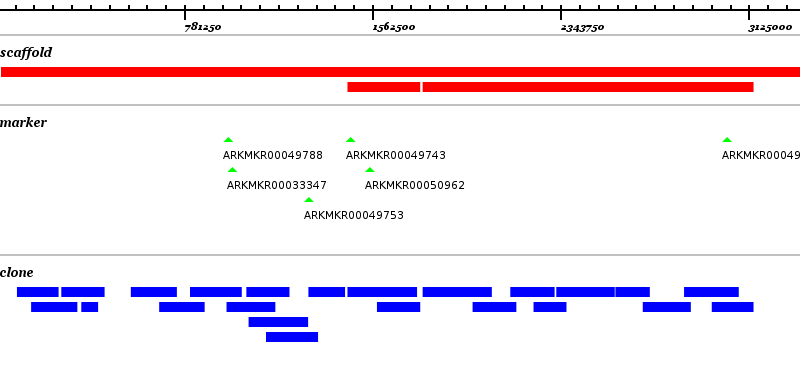
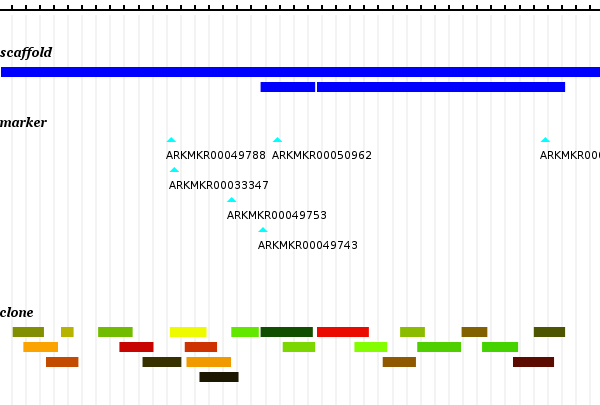
* Colour of glyph moved to just before actual drawing of subfeature. * Test test_draw.rb now includes dynamic setting of colour using lambda. * Bug fixed: major ticks and numbers not shown in ruler (bug #18365) * Numbers in ruler now commified * New glyph: arrow
git-svn-id: svn+ssh://rubyforge.org/var/svn/bio-graphics@57 a2f46d20-7dc0-45cf-9d05-bfa4e4ff58eb

diff --git a/trunk/lib/bio/graphics/ruler.rb b/trunk/lib/bio/graphics/ruler.rb
@@ -58,7 +58,7 @@ class Bio::Graphics::Ruler
     #    343, 353, 363, 373 and so on. Instead, we want 350, 360, 370, 380.
     #    So we want to find the position of the first tick.
     modulo_from_tick = (start % minor_tick)
-    start + (modulo_from_tick > 0 ? (minor_tick - modulo_from_tick + 1) : 0)
+    return (start + (modulo_from_tick > 0 ? (minor_tick - modulo_from_tick) : 0))
   end
   
   # Draw the ruler, including the faint vertical lines that go from top to
@@ -68,12 +68,12 @@ class Bio::Graphics::Ruler
 
     # Draw line
     ruler_drawing.move_to(0,10)
-    ruler_drawing.line_to(panel.width, 10)
+    ruler_drawing.line_to(@panel.width, 10)
     ruler_drawing.stroke
 
     # Draw ticks and vertical grid lines
-    first_tick_position.step(@panel.display_stop, @minor_tick_distance) do |tick|
-      tick_pixel_position = ((tick - panel.display_start) / @panel.rescale_factor).floor
+    self.first_tick_position.step(@panel.display_stop, @minor_tick_distance) do |tick|
+      tick_pixel_position = ((tick - @panel.display_start) / @panel.rescale_factor).floor
       ruler_drawing.move_to(tick_pixel_position, @min_pixels_per_tick)
       if tick.modulo(@major_tick_distance) == 0 # major tick
         tick(ruler_drawing,3*@tick_height)
@@ -113,7 +113,7 @@ class Bio::Graphics::Ruler
     surface.select_font_face(*Bio::Graphics::FONT)
     surface.set_font_size(@tick_text_height)
     surface.move_to(position, 4*@tick_height + @tick_text_height)
-    surface.show_text(tick.to_i.to_s)    
+    surface.show_text(tick.to_i.commify)
   end
   private :tick_number
 end

diff --git a/trunk/samples/glyph_showcase.rb b/trunk/samples/glyph_showcase.rb
@@ -7,6 +7,7 @@ box_track = my_panel.add_track('box', :label => false, :glyph => :box)
 line_track = my_panel.add_track('line', :label => false, :glyph => :line, :colour => [0,0,1])
 line_with_handles_track = my_panel.add_track('line_with_handles', :label => false, :glyph => :line_with_handles, :colour => [1,0,0])
 directed_track = my_panel.add_track('directed', :label => false, :glyph => :directed_generic, :colour => [0,1,0])
+arrow_track = my_panel.add_track('arrow', :label => false, :glyph => :arrow)
 directed_box_track = my_panel.add_track('directed_box', :label => false, :glyph => :directed_box, :colour => [0,1,0])
 triangle_track = my_panel.add_track('triangle', :label => false, :glyph => :triangle, :colour => [1,0,0])
 spliced_track = my_panel.add_track('spliced', :label => false, :glyph => :spliced, :colour => [1,0,0])
@@ -26,6 +27,9 @@ line_with_handles_track.add_feature(Bio::Feature.new('utr', '355..480'), :link =
 
 directed_track.add_feature(Bio::Feature.new('primer', '50..60'), :link => 'http://www.google.com')
 directed_track.add_feature(Bio::Feature.new('primer', 'complement(80..120)'), :link => 'http://www.sourceforge.net')
+
+arrow_track.add_feature(Bio::Feature.new('sheet', '50..60'))
+arrow_track.add_feature(Bio::Feature.new('sheet', 'complement(80..120)'))
 
 directed_box_track.add_feature(Bio::Feature.new('primer', '50..60'), :link => 'http://www.google.com')
 directed_box_track.add_feature(Bio::Feature.new('primer', 'complement(80..120)'), :link => 'http://www.sourceforge.net')

diff --git a/trunk/lib/bio/graphics/glyphs/arrow.rb b/trunk/lib/bio/graphics/glyphs/arrow.rb
@@ -1,0 +1,23 @@
+# 
+# = bio/graphics/glyphs/arrow - arrow
+#
+# Copyright::   Copyright (C) 2008
+#               Jan Aerts <jandot@bioruby.org>
+# License::     The Ruby License
+#
+
+module Bio::Graphics::Glyph
+  class Bio::Graphics::Glyph::Arrow < Bio::Graphics::Glyph::Common
+    def draw
+      if @subfeature.strand == -1 # Reverse strand
+        @feature_context.rectangle(self.left_pixel+Bio::Graphics::FEATURE_ARROW_LENGTH, 0, self.right_pixel - self.left_pixel - Bio::Graphics::FEATURE_ARROW_LENGTH, Bio::Graphics::FEATURE_HEIGHT).fill
+        arrow(@feature_context,:left,self.left_pixel+Bio::Graphics::FEATURE_ARROW_LENGTH + 4,-4,Bio::Graphics::FEATURE_ARROW_LENGTH + 4)
+        @feature_context.close_path.fill
+      else #default is forward strand
+        @feature_context.rectangle(self.left_pixel, 0, self.right_pixel- self.left_pixel - Bio::Graphics::FEATURE_ARROW_LENGTH, Bio::Graphics::FEATURE_HEIGHT).fill
+        arrow(@feature_context,:right,self.right_pixel-Bio::Graphics::FEATURE_ARROW_LENGTH - 4,-4,Bio::Graphics::FEATURE_ARROW_LENGTH + 4)
+        @feature_context.close_path.fill
+      end
+    end
+  end
+end

diff --git a/trunk/lib/bio/graphics/feature.rb b/trunk/lib/bio/graphics/feature.rb
@@ -54,7 +54,7 @@ class Bio::Graphics::Feature
     @label = opts[:label]
     @link = opts[:link]
     @glyph = opts[:glyph]
-    @colour = opts[:colour].respond_to?(:call) ? opts[:colour].call(self) : opts[:colour]
+    @colour = opts[:colour]
     
     # Create Bio::Graphics SubFeatures
     # The drawing is handled by subfeatures. If there are no defined, the
@@ -147,7 +147,7 @@ class Bio::Graphics::Feature
       feature_context.move_to(@left_pixel_of_feature, Bio::Graphics::TRACK_HEADER_HEIGHT)
       feature_context.set_source_rgb(0,0,0)
       feature_context.show_pango_layout(pango_layout)
-      feature_context.set_source_rgb(@colour)
+#      feature_context.set_source_rgb(@colour)
     end
 
 

diff --git a/trunk/lib/bio-graphics.rb b/trunk/lib/bio-graphics.rb
@@ -17,6 +17,16 @@ class Range
   alias :rend :end
 end
 
+class Integer
+  def commify
+    self.to_s =~ /([^\.]*)(\..*)?/
+    int, dec = $1.reverse, $2 ? $2 : ""
+    while int.gsub!(/(,|\.|^)(\d{3})(\d)/, '\1\2,\3')
+    end
+    int.reverse + dec
+  end
+end
+
 class String
   def snake_case
    return self.to_s.gsub(/::/, '/').gsub(/([A-Z]+)([A-Z][a-z])/,'\1_\2').gsub(/([a-z\d])([A-Z])/,'\1_\2').tr("-", "_").downcase

diff --git a/trunk/test/unit/test_draw.rb b/trunk/test/unit/test_draw.rb
@@ -85,7 +85,9 @@ class TestPanel < Test::Unit::TestCase
     scaffold_track.colour = [1,0,0]
     marker_track.colour = [0,1,0]
     marker_track.glyph = :triangle
-    clone_track.colour = [0,0,1]
+    clone_track.colour = lambda do |feature|
+                           return [rand,rand,0]
+                         end
     
     # Add data to tracks
     File.open(File.dirname(__FILE__) + '/data.txt').each do |line|

diff --git a/trunk/lib/bio/graphics/subfeature.rb b/trunk/lib/bio/graphics/subfeature.rb
@@ -174,7 +174,8 @@ class Bio::Graphics::SubFeature
 
     # And draw the thing.
 
-     feature_context.set_source_rgb(@colour)
+    colour = @colour.respond_to?(:call) ? @colour.call(self) : @colour
+    feature_context.set_source_rgb(colour)
 
     glyph_name = 'Bio::Graphics::Glyph::' + local_feature_glyph.to_s.camel_case
     glyph_class = glyph_name.to_class
